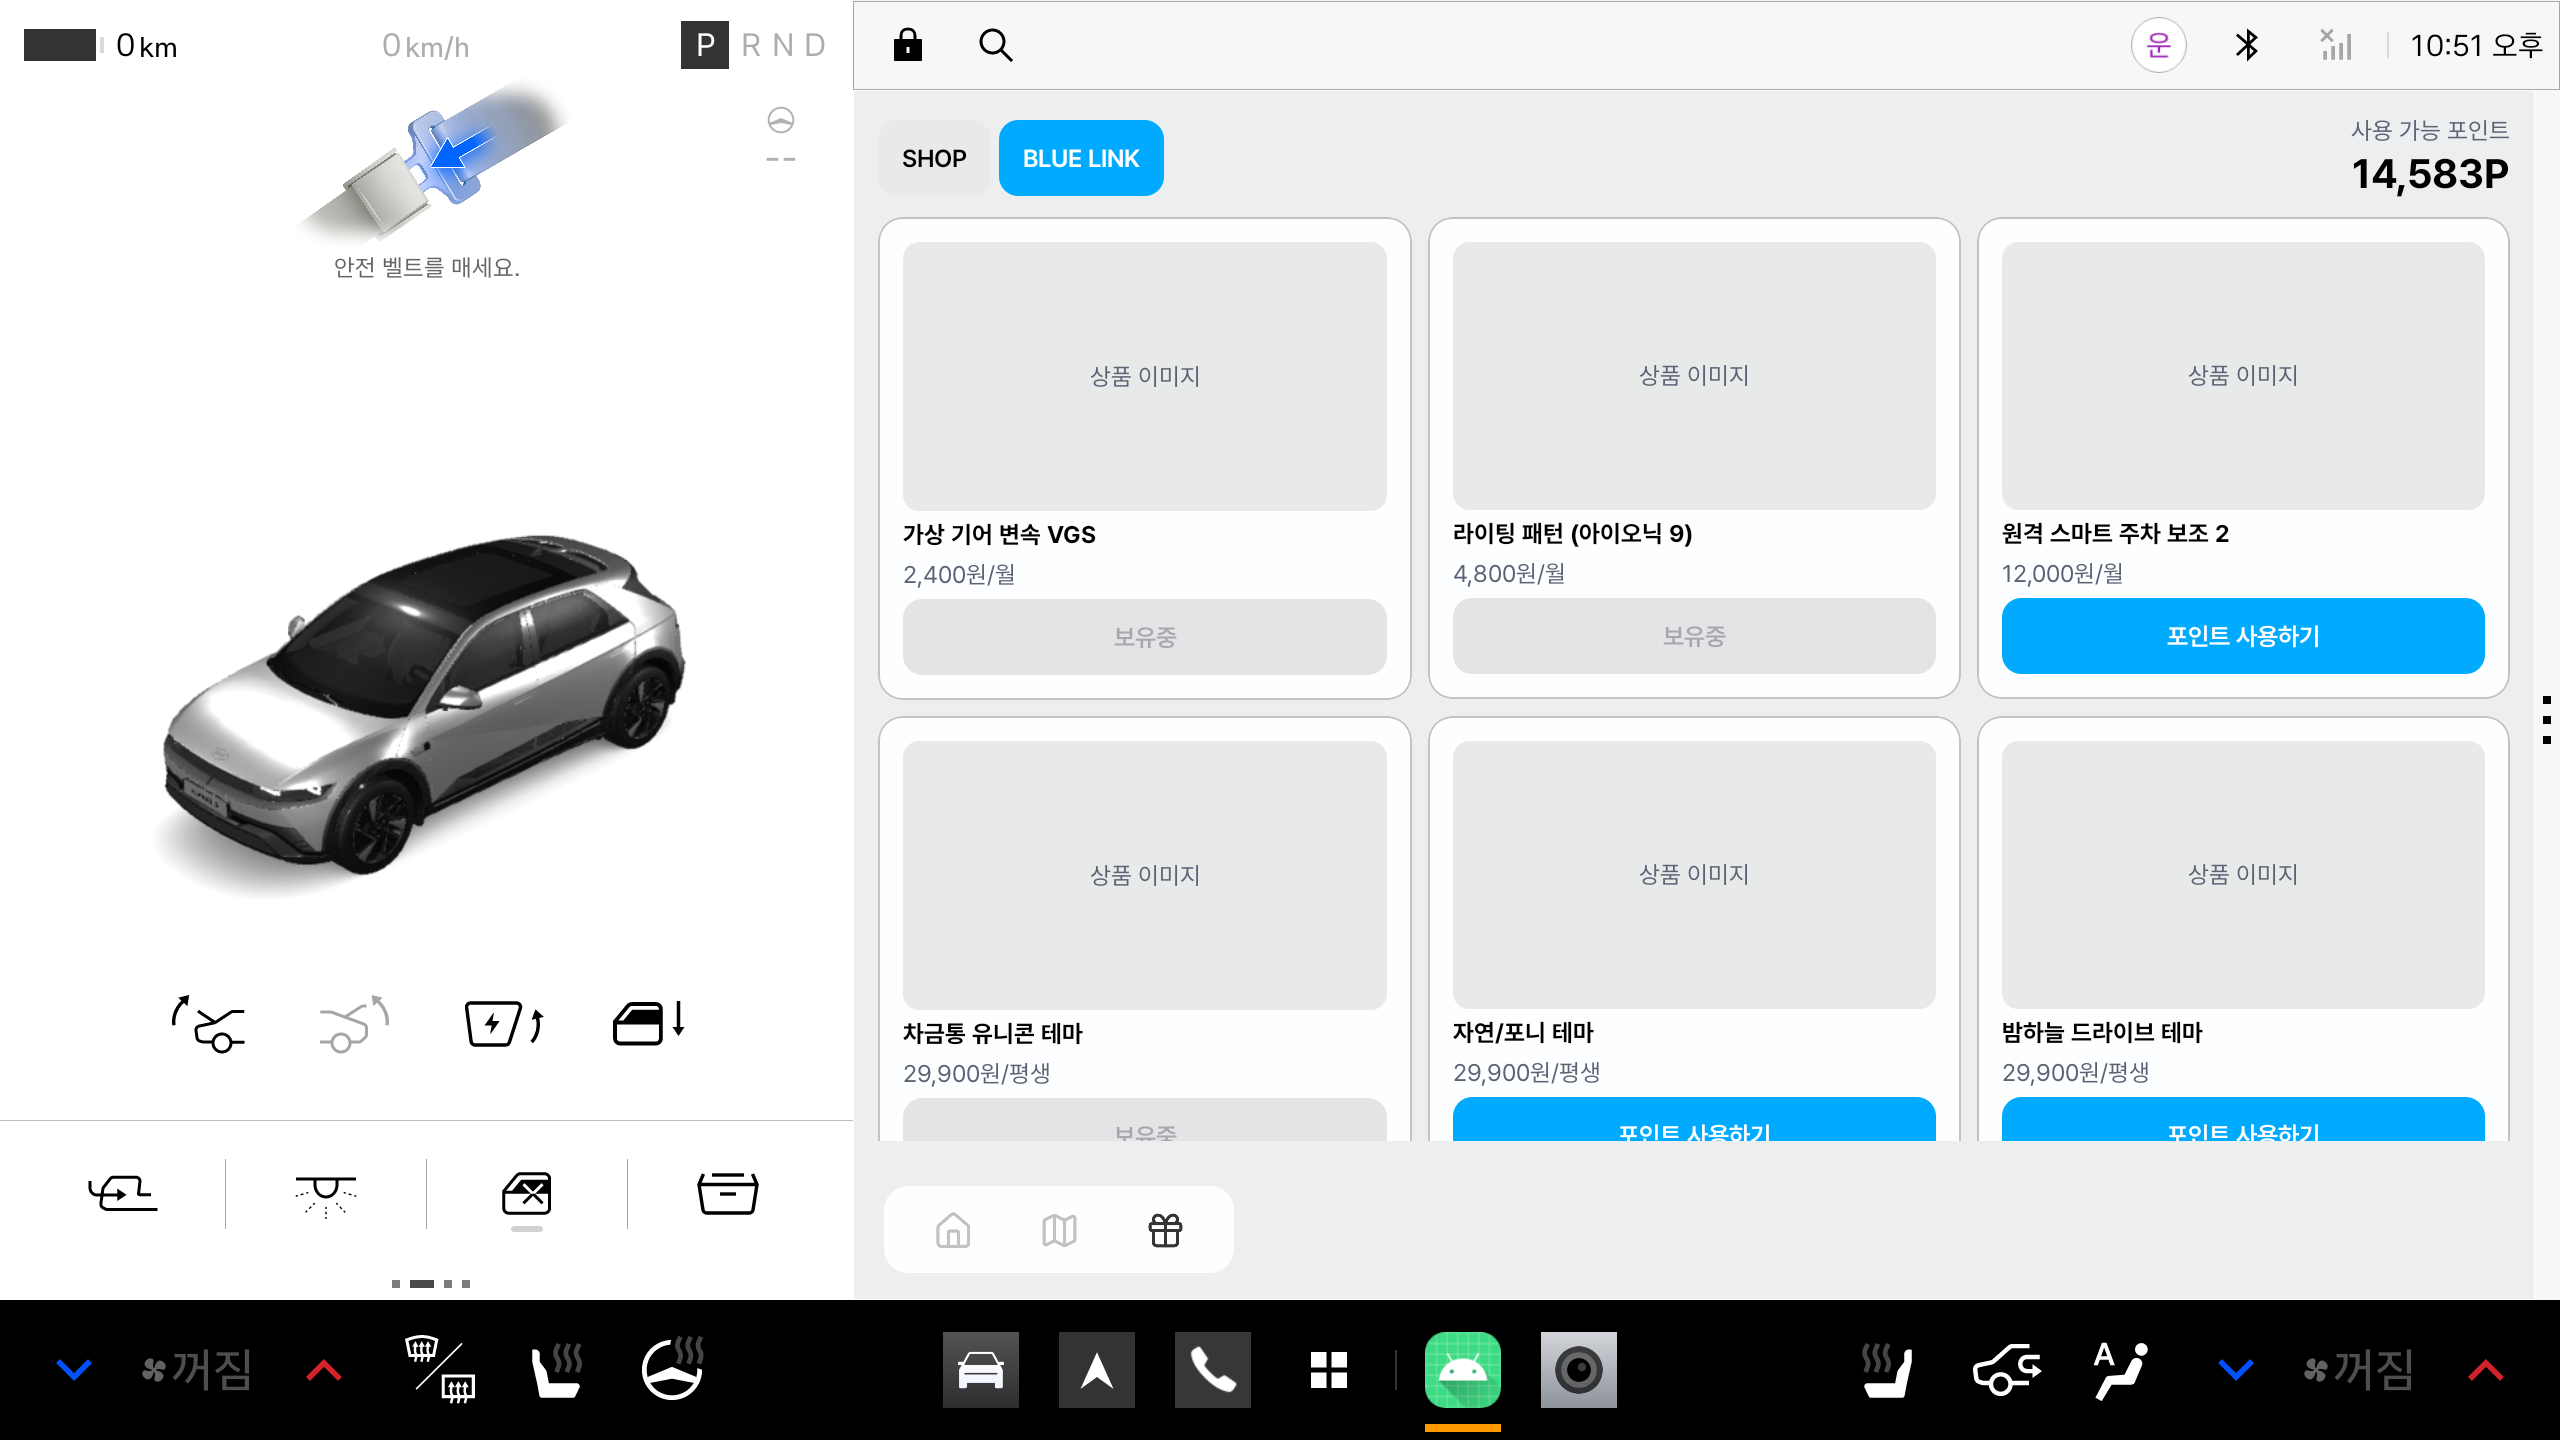
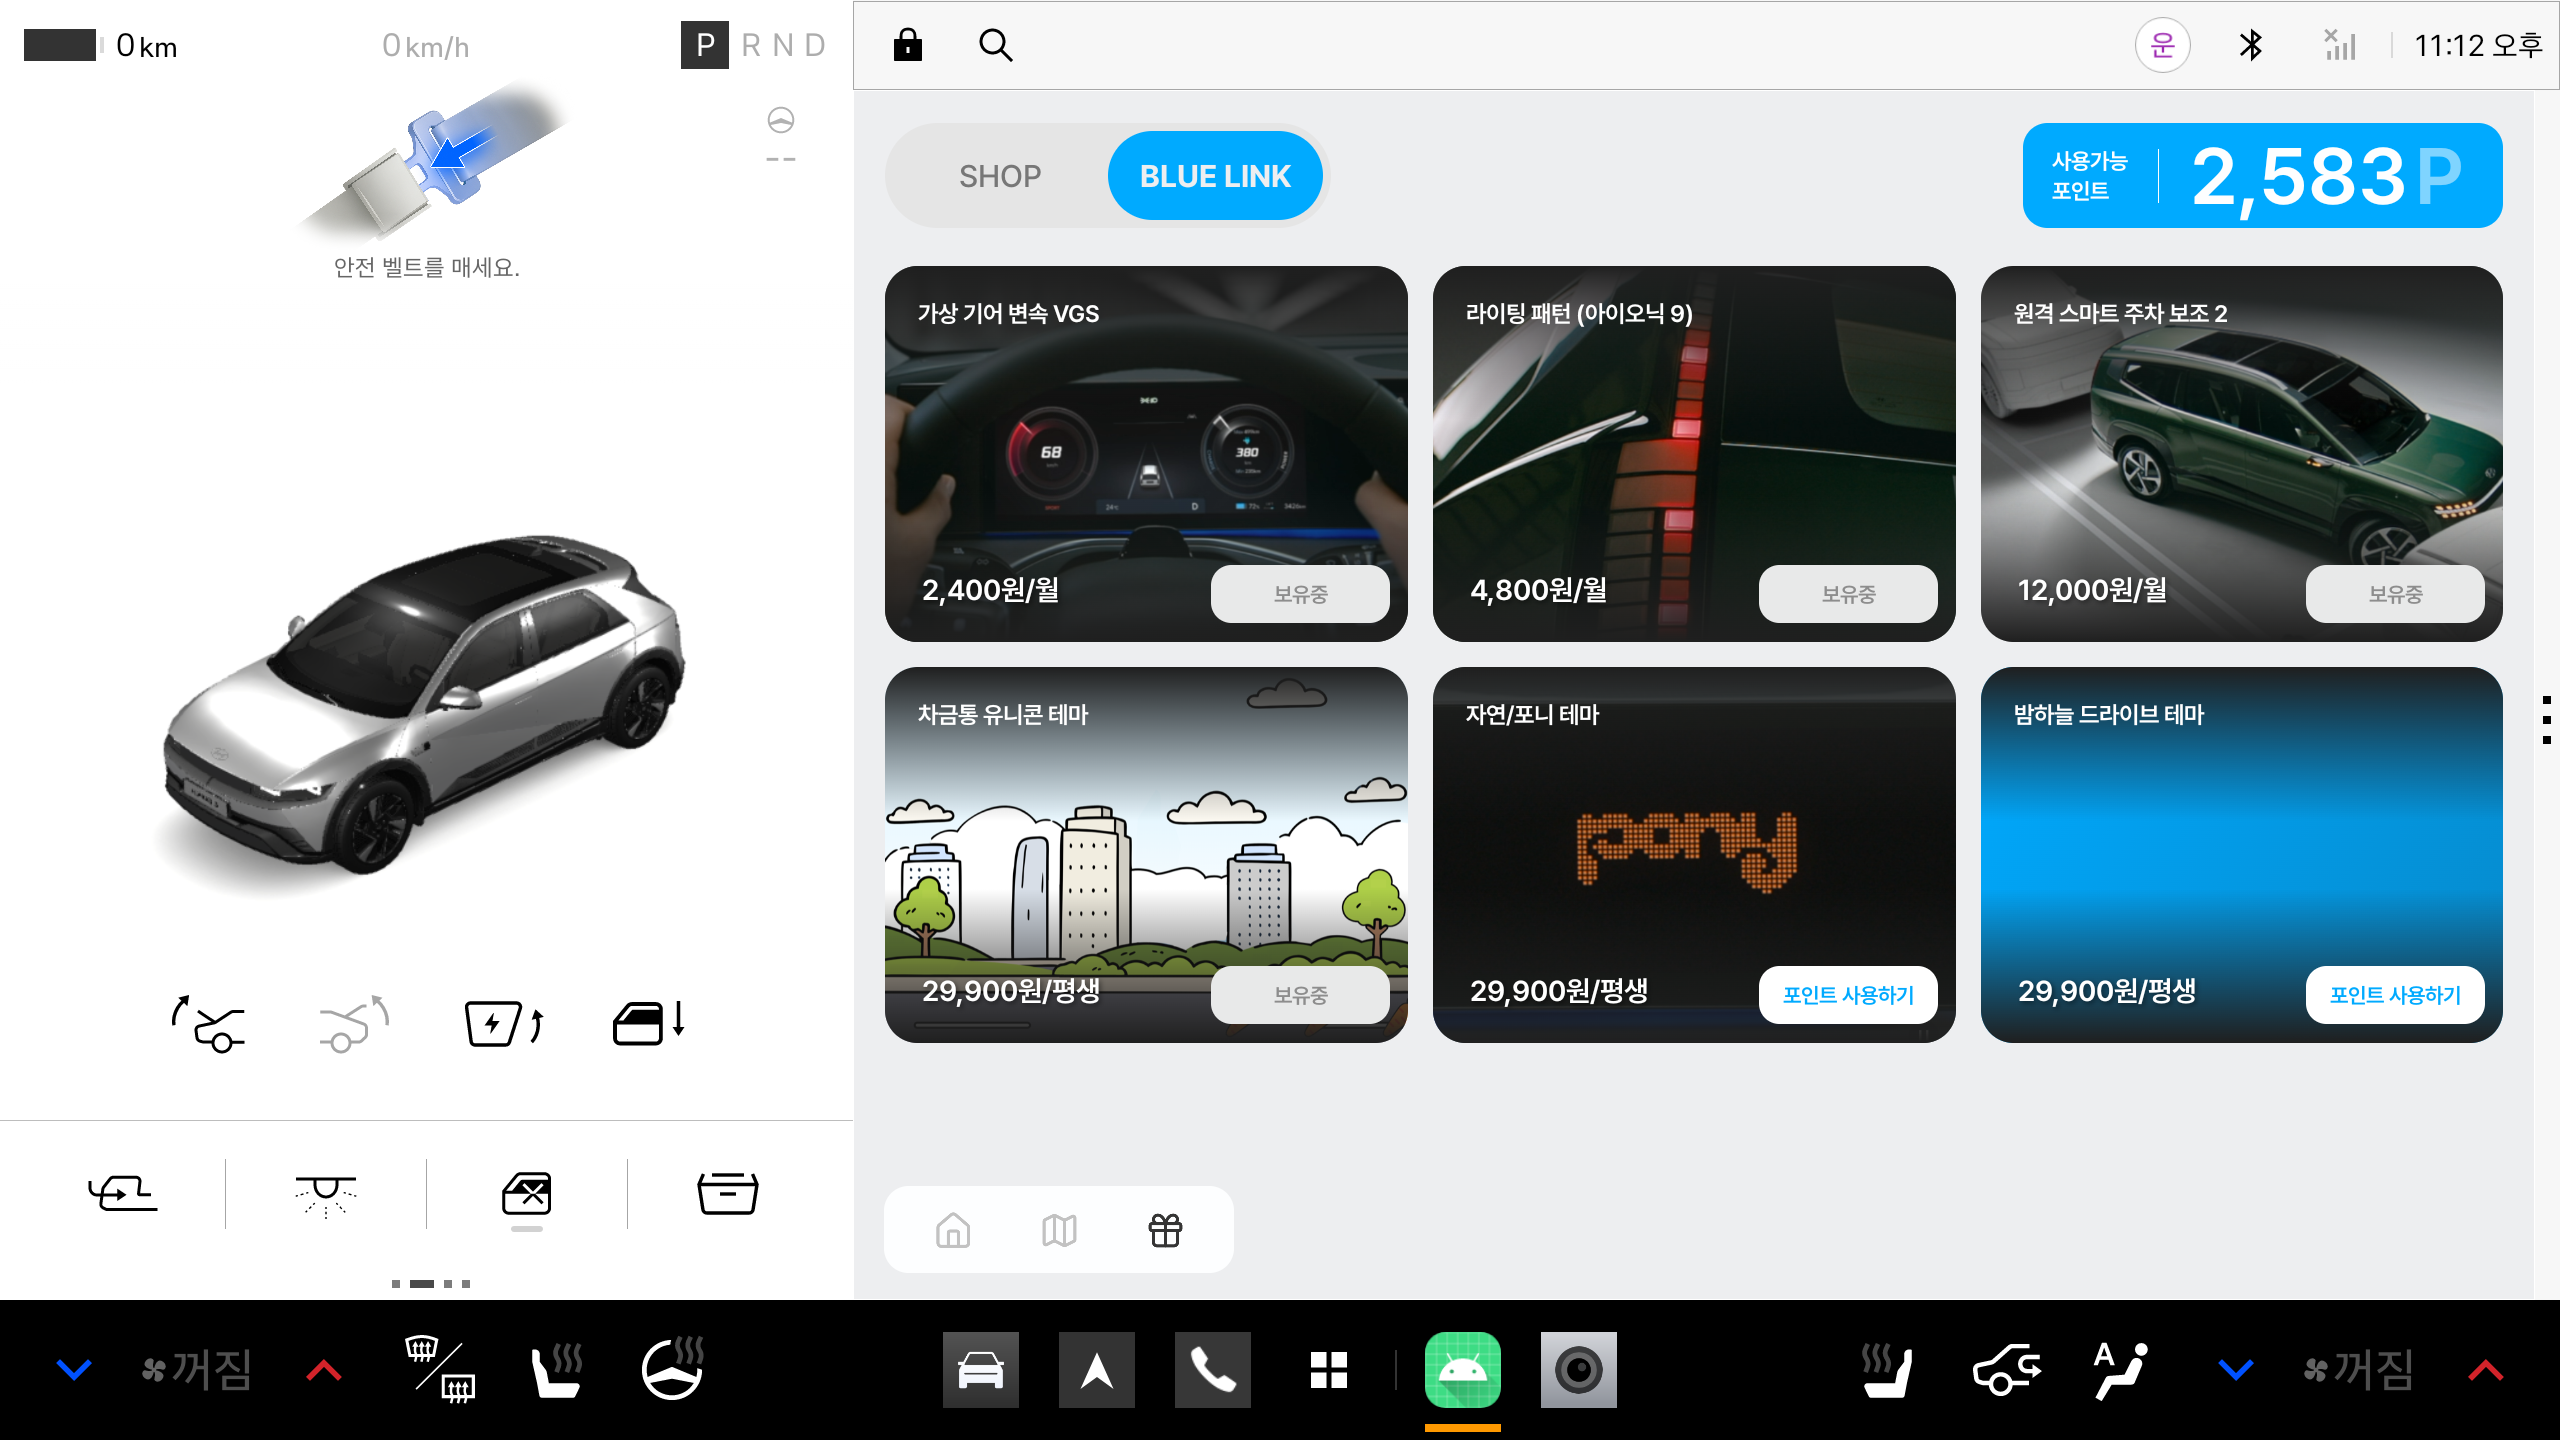
step 8c: history design pass + screenshots

diff --git a/app/src/main/java/com/pure/chageumtong/ui/screens/history/HistoryScreen.kt b/app/src/main/java/com/pure/chageumtong/ui/screens/history/HistoryScreen.kt
@@ -1,17 +1,25 @@
 package com.pure.chageumtong.ui.screens.history
 
+import androidx.compose.foundation.Image
+import androidx.compose.foundation.background
+import androidx.compose.foundation.border
 import androidx.compose.foundation.clickable
 import androidx.compose.foundation.layout.Arrangement
+import androidx.compose.foundation.layout.Box
 import androidx.compose.foundation.layout.Column
+import androidx.compose.foundation.layout.PaddingValues
 import androidx.compose.foundation.layout.Row
+import androidx.compose.foundation.layout.Spacer
 import androidx.compose.foundation.layout.fillMaxSize
 import androidx.compose.foundation.layout.fillMaxWidth
+import androidx.compose.foundation.layout.height
 import androidx.compose.foundation.layout.heightIn
 import androidx.compose.foundation.layout.padding
+import androidx.compose.foundation.layout.size
 import androidx.compose.foundation.lazy.LazyColumn
 import androidx.compose.foundation.lazy.LazyRow
 import androidx.compose.foundation.lazy.items
-import androidx.compose.material3.FilterChip
+import androidx.compose.foundation.shape.RoundedCornerShape
 import androidx.compose.material3.Text
 import androidx.compose.runtime.Composable
 import androidx.compose.runtime.collectAsState
@@ -21,23 +29,28 @@ import androidx.compose.runtime.remember
 import androidx.compose.runtime.setValue
 import androidx.compose.ui.Alignment
 import androidx.compose.ui.Modifier
+import androidx.compose.ui.draw.clip
 import androidx.compose.ui.graphics.Color
-import androidx.compose.ui.text.font.FontWeight
+import androidx.compose.ui.res.painterResource
+import com.pure.chageumtong.R
 import com.pure.chageumtong.domain.DriveSession
 import com.pure.chageumtong.domain.PointTx
 import com.pure.chageumtong.ui.AppViewModel
-import com.pure.chageumtong.ui.components.BigButton
-import com.pure.chageumtong.ui.components.Label
-import com.pure.chageumtong.ui.components.SectionCard
+import com.pure.chageumtong.ui.components.PointsCard
 import com.pure.chageumtong.ui.components.fmtKm
 import com.pure.chageumtong.ui.components.fmtP
-import com.pure.chageumtong.ui.theme.BODY
-import com.pure.chageumtong.ui.theme.Blue
-import com.pure.chageumtong.ui.theme.BoxGray
+import com.pure.chageumtong.ui.theme.Alert
+import com.pure.chageumtong.ui.theme.ChipOff
+import com.pure.chageumtong.ui.theme.D
 import com.pure.chageumtong.ui.theme.MIN_TOUCH
-import com.pure.chageumtong.ui.theme.Orange
+import com.pure.chageumtong.ui.theme.Primary
+import com.pure.chageumtong.ui.theme.StrokeGray
+import com.pure.chageumtong.ui.theme.Surface
+import com.pure.chageumtong.ui.theme.T
+import com.pure.chageumtong.ui.theme.TextChipOff
+import com.pure.chageumtong.ui.theme.TextTertiary
+import com.pure.chageumtong.ui.theme.TextTitle
 import com.pure.chageumtong.ui.theme.fig
-import com.pure.chageumtong.ui.theme.figSp
 import java.time.Instant
 import java.time.YearMonth
 import java.time.format.DateTimeFormatter
@@ -49,7 +62,7 @@ private sealed interface Item {
     data class Tx(val tx: PointTx) : Item { override val at get() = tx.at }
 }
 
-/** 적립 내역 (PRD §6.5) */
+/** 적립 내역 (PRD §6.5, Figma 없음 → 분석 화면 뒤로 버튼·칩, 상점 포인트 카드, 홈 카드 스타일 재사용) */
 @Composable
 fun HistoryScreen(vm: AppViewModel, onOpenSession: (String) -> Unit, onBack: () -> Unit) {
     val data by vm.data.collectAsState()
@@ -62,39 +75,46 @@ fun HistoryScreen(vm: AppViewModel, onOpenSession: (String) -> Unit, onBack: () 
     val current = month ?: months.firstOrNull()
     val fmt = remember(zone) { DateTimeFormatter.ofPattern("M월 d일 HH:mm").withZone(zone) }
 
-    Column(Modifier.fillMaxSize().padding(fig(24)), verticalArrangement = Arrangement.spacedBy(fig(16))) {
-        Row(verticalAlignment = Alignment.CenterVertically, horizontalArrangement = Arrangement.spacedBy(fig(24))) {
-            BigButton("← 홈", onBack, container = BoxGray, content = Color.Black)
-            Text("적립 내역", fontSize = figSp(40), fontWeight = FontWeight.Bold, modifier = Modifier.weight(1f))
-            SectionCard(color = Blue) {
-                Text("총 적립 포인트 ${fmtP(data.totalPoints)}P", fontSize = BODY, fontWeight = FontWeight.Bold, color = Color.White)
-            }
+    Column(Modifier.fillMaxSize().padding(start = D.ScreenPad, top = D.ScreenPad, end = D.ScreenPad)) {
+        Row(verticalAlignment = Alignment.CenterVertically) {
+            Box(
+                Modifier.size(fig(84), D.BottomBarHeight).clip(RoundedCornerShape(D.RadiusCard)).background(Surface).clickable(onClick = onBack),
+                contentAlignment = Alignment.Center,
+            ) { Image(painterResource(R.drawable.ic_caret_left), "뒤로", Modifier.size(fig(40))) }
+            Text("적립 내역", Modifier.padding(start = fig(24)).weight(1f), style = T.DialogTitle, color = TextTitle)
+            PointsCard(data.totalPoints)
         }
-        LazyRow(horizontalArrangement = Arrangement.spacedBy(fig(12))) {
+        Spacer(Modifier.height(fig(28)))
+        LazyRow(horizontalArrangement = Arrangement.spacedBy(fig(16))) {
             items(months) { m ->
-                FilterChip(
-                    selected = m == current,
-                    onClick = { month = m },
-                    label = { Text("${m.year}년 ${m.monthValue}월", fontSize = BODY) },
-                    modifier = Modifier.heightIn(min = MIN_TOUCH),
-                )
+                val on = m == current
+                Box(
+                    Modifier.height(MIN_TOUCH).clip(RoundedCornerShape(D.RadiusButton))
+                        .background(if (on) Primary else ChipOff).clickable { month = m }.padding(horizontal = fig(28)),
+                    contentAlignment = Alignment.Center,
+                ) { Text("${m.year}년 ${m.monthValue}월", style = T.Chip, color = if (on) Color.White else TextChipOff) }
             }
         }
-        LazyColumn(Modifier.weight(1f), verticalArrangement = Arrangement.spacedBy(fig(8))) {
+        Spacer(Modifier.height(fig(24)))
+        LazyColumn(
+            Modifier.weight(1f),
+            contentPadding = PaddingValues(bottom = fig(24)),
+            verticalArrangement = Arrangement.spacedBy(fig(12)),
+        ) {
             items(items.filter { ym(it.at) == current }) { item ->
                 when (item) {
                     is Item.Drive -> HistoryRow(
                         "${fmt.format(Instant.ofEpochMilli(item.s.startedAt))} 주행",
                         "${fmtKm(item.s.distanceKm)}km · 안전 ${item.s.safeRatio}%",
                         "+${fmtP(item.s.points)}P",
-                        Blue,
+                        Primary,
                         Modifier.clickable { onOpenSession(item.s.id) },
                     )
                     is Item.Tx -> HistoryRow(
                         fmt.format(Instant.ofEpochMilli(item.tx.at)),
                         item.tx.label,
                         (if (item.tx.amount < 0) "−" else "+") + "${fmtP(kotlin.math.abs(item.tx.amount))}P",
-                        if (item.tx.amount < 0) Orange else Blue,
+                        if (item.tx.amount < 0) Alert else Primary,
                     )
                 }
             }
@@ -102,15 +122,19 @@ fun HistoryScreen(vm: AppViewModel, onOpenSession: (String) -> Unit, onBack: () 
     }
 }
 
+/** 한 줄 카드: 홈 카드와 같은 흰 바탕·1px 테두리·라운드 24 */
 @Composable
 private fun HistoryRow(title: String, sub: String, amount: String, amountColor: Color, modifier: Modifier = Modifier) {
-    SectionCard(modifier.fillMaxWidth().heightIn(min = MIN_TOUCH)) {
-        Row(verticalAlignment = Alignment.CenterVertically) {
-            Column(Modifier.weight(1f)) {
-                Text(title, fontSize = BODY, fontWeight = FontWeight.Bold)
-                Label(sub)
-            }
-            Text(amount, fontSize = figSp(32), fontWeight = FontWeight.Bold, color = amountColor)
+    Row(
+        Modifier.fillMaxWidth().clip(RoundedCornerShape(D.RadiusCard)).then(modifier)
+            .background(Surface).border(D.StrokeCard, StrokeGray, RoundedCornerShape(D.RadiusCard))
+            .heightIn(min = fig(112)).padding(horizontal = fig(36), vertical = fig(16)),
+        verticalAlignment = Alignment.CenterVertically,
+    ) {
+        Column(Modifier.weight(1f), verticalArrangement = Arrangement.spacedBy(fig(6))) {
+            Text(title, style = T.RowTitle, color = TextTitle)
+            Text(sub, style = T.DialogBody, color = TextTertiary)
         }
+        Text(amount, style = T.RowAmount, color = amountColor)
     }
 }

diff --git a/README.md b/README.md
@@ -80,5 +80,6 @@ scripts/drive_demo.sh [속도km/h=60] [주행초=40]
 ## 이미지·폰트 출처
 
 - 유니콘·도시·당근 일러스트, 아이콘, 분석 화면 지도 배경: 팀 pure 자체 제작
-- 광고 배너 차량 사진: **시연용, 저작권 현대자동차**
+- 광고 배너 차량 사진, 상점 상품 사진(가상 기어 변속·라이팅 패턴·원격 스마트 주차 보조 2·자연/포니 테마), 지도 화면 장소 사진(충전소·대리점·블루핸즈): **시연용, 저작권 현대자동차**
+- 사진이 없는 상품은 테마색 그라데이션 카드로 표시합니다. 서드파티 캐릭터(IP) 이미지는 사용하지 않습니다.
 - 폰트: [Pretendard](https://github.com/orioncactus/pretendard) — SIL Open Font License 1.1 (`docs/PRETENDARD_LICENSE.txt`)
